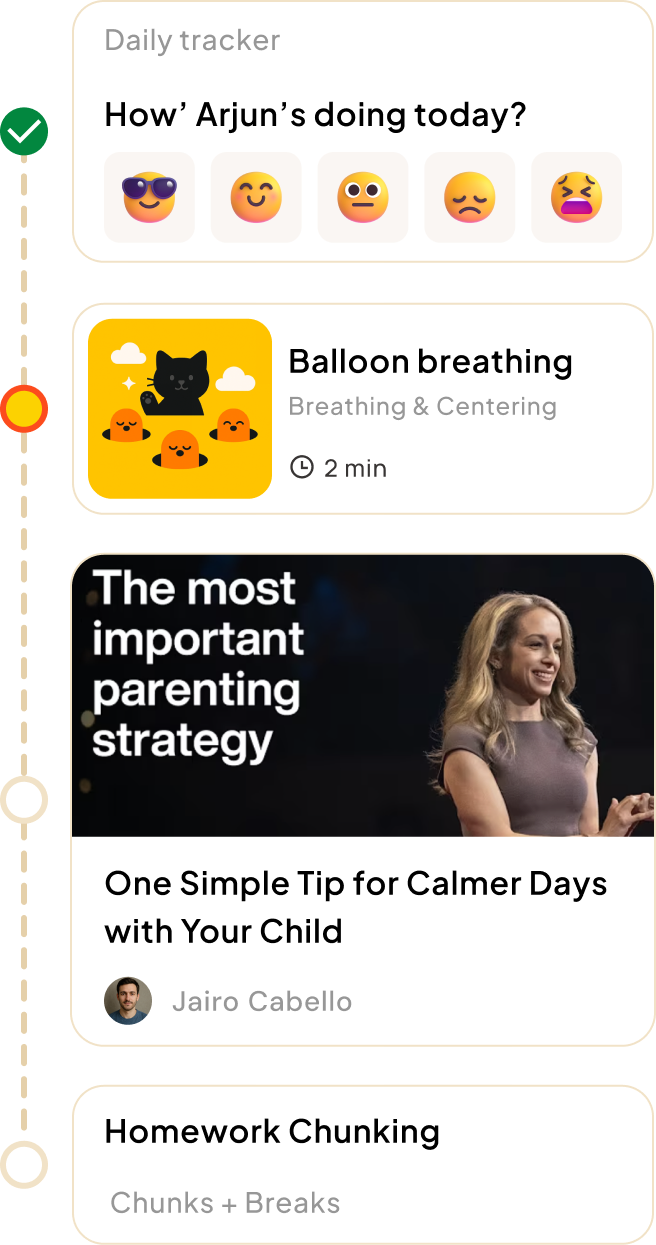
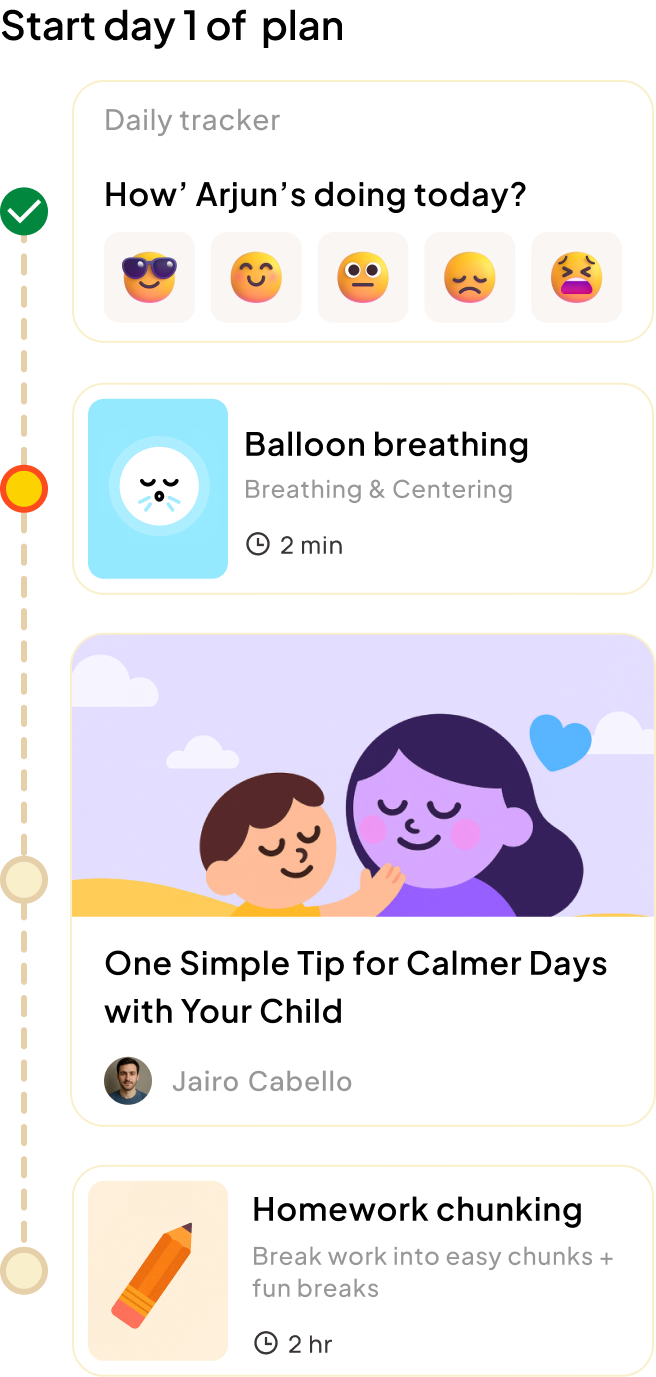
added new homepage layout

diff --git a/src/pages/NewHomepage.tsx b/src/pages/NewHomepage.tsx
@@ -79,13 +79,29 @@ export const NewHomepage: React.FC = () => {
           </div>
           
           {/* Search/Content Area */}
-          <div className="flex-1 flex items-center gap-2 bg-transparent rounded-lg px-2 py-2">
-            {/* Empty search area - can be customized */}
+          <div className="flex-1 flex items-center gap-2 bg-transparent rounded-lg px-2 py-2 ">
+            
           </div>
         </div>
 
+        
+
         {/* Main Content */}
         <div className="pt-10">
+        <div className="w-full items-start mt-8 pt-4 ml-6 pb-[-4]">
+          <h2
+            style={{
+              fontFamily: "Plus Jakarta Sans",
+              fontWeight: 700,
+              fontStyle: "normal",
+              fontSize: "22px",
+              lineHeight: "24px",
+              letterSpacing: "0px",
+            }}
+          >
+            Good Morning!
+          </h2>
+        </div>
           <div className="flex justify-center">
             <img
               src={TalkToWiglooImg}
@@ -95,7 +111,7 @@ export const NewHomepage: React.FC = () => {
                 width: "90%",
                 height: "100%",
                 margin: "0 auto",
-                paddingTop: "42px",
+                paddingTop: "18px",
               }}
             />
           </div>
@@ -154,7 +170,7 @@ export const NewHomepage: React.FC = () => {
                 <img
                   src={ArticleIcon}
                   alt="Article"
-                  className="w-6 h-6 text-[#1C1B1F]"
+                  className="w-6 h-6 text-[#1C1B1F] "
                 />
               </div>
             </div>
